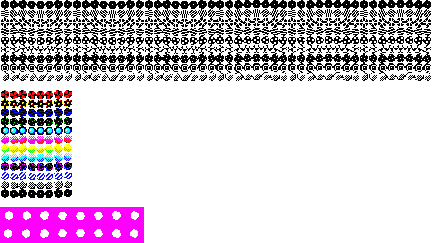
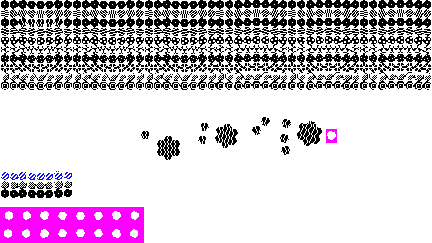
added colors to ui

diff --git a/src/text.c b/src/text.c
@@ -15,7 +15,7 @@ void FontTerminate(Font_t* f)
     free(f);
 }
 
-void FontCharDraw(Font_t* f, wchar_t c, int x, int y)
+void FontCharDraw(Font_t* f, wchar_t c, int x, int y, int color)
 {
     //SDL_SetRenderDrawColor( m_renderer, rgb[val][0], rgb[val][1], rgb[val][2], 255 );
     wchar_t n = c;     // ~    126
@@ -32,10 +32,11 @@ void FontCharDraw(Font_t* f, wchar_t c, int x, int y)
     int srcy = (n / 15) * f->character_height;
     int dstx = x * f->character_width;
     int dsty = y * f->character_height;
-    SpriteDraw(f->sprite, srcx, srcy, dstx, dsty);
+    SpriteDraw(f->sprite, srcx, srcy, dstx, dsty, color);
+
 }
 
-void FontCharFill(Font_t* f, wchar_t c, int x, int y, int w, int h)
+void FontCharFill(Font_t* f, wchar_t c, int x, int y, int w, int h, int color)
 {
     int cx = x, cy = y;
     int i = 0;
@@ -46,13 +47,13 @@ void FontCharFill(Font_t* f, wchar_t c, int x, int y, int w, int h)
                 cx = x;
                 cy += 1;
             }
-            FontCharDraw(f, c, cx, cy);
+            FontCharDraw(f, c, cx, cy, color);
             cx += 1;
         i++;
     }
 }
 
-void FontStringDraw(Font_t* f, int ax, int ay, int w, int h, wchar_t* s)
+void FontStringDraw(Font_t* f, int ax, int ay, int w, int h, wchar_t* s, int color)
 {
     int cx = ax, cy = ay;
     wchar_t c = *s;
@@ -74,7 +75,7 @@ void FontStringDraw(Font_t* f, int ax, int ay, int w, int h, wchar_t* s)
                 cy += 1;
             }
             if(c != ' ')
-                FontCharDraw(f, c, cx, cy);
+                FontCharDraw(f, c, cx, cy, color);
             cx += 1;
             break;
         }
@@ -83,84 +84,11 @@ void FontStringDraw(Font_t* f, int ax, int ay, int w, int h, wchar_t* s)
     }
 }
 
-void FontNumberDraw(Font_t* f, int ax, int ay, int w, int h, int num)
+void FontNumberDraw(Font_t* f, int ax, int ay, int w, int h, int num, int color)
 {
     wchar_t str[240];
     swprintf(str, 240, L"%i", 
     num);
-    FontStringDraw(f, ax, ay, w, h, str);
+    FontStringDraw(f, ax, ay, w, h, str, color);
 }
 
-void FontUIDraw(Font_t* f, Display_t* d)
-{
-    wchar_t reading[82];
-
-    FILE* fl1 = NULL;
-    fl1 = fopen("./src/ui.txt", "r");
-    for(int i = 0; i < 45; i++)
-    {
-        fgetws(reading, 82, fl1);
-        FontStringDraw(f, 0, i, 80, 1, reading); 
-    }
-    fclose(fl1);
-
-    int x, y;
-    MouseToGrid(&x, &y);
-    wchar_t str[240];
-    swprintf(str, 240, L"угол: %i\nсдвиг по х: %i\nсдвиг по y: %i\nмышь х: %i\nмышь y: %i\n", 
-    d->angle, d->hshift.x, d->hshift.y, x, y);
-    
-    FontStringDraw(f, 1, 28, 15, 16,
-    str);
-    /*
-    FontStringDraw(f, 1, 1, 3, 3, L"/=\\‖o‖\\=/");
-    FontStringDraw(f, 5, 1, 3, 3, L"r `   l №");
-    FontStringDraw(f, 9, 1, 3, 3, L"o\\ \\ \\ \\o");
-    FontStringDraw(f, 1, 5, 3, 3, L" n <ш>iV ");
-
-    FontStringDraw(f, 1, 10, 3, 3, L":::r`/`№ъ");
-    FontStringDraw(f, 5, 10, 3, 3, L"n n>>>u u");
-
-    FontStringDraw(f, 1, 18, 3, 4, L"c=\\ // u  o ");
-    FontStringDraw(f, 1, 23, 3, 4, L"r\\ |l\\| |l-№");r\ 
-    FontStringDraw(f, 5, 23, 3, 4, L" Л /‖\\ ‖ c=э"); |l\
-    FontStringDraw(f, 9, 23, 3, 4, L" ‖ \\‖/ V c=э"); | |
-    FontStringDraw(f, 13, 23, 3, 4, L" n qhpdчb u "); l-№
-    */
-    int r = 16;
-    x = 38, y = 22;
-    int ang = d->angle;
-
-    wchar_t angstr[4];
-    swprintf(angstr, 4, L"%i", ang * 60);
-
-    int zang, nang;
-    int xang, yang;
-
-    zang = r, nang = 0;
-    FontNumberDraw(f, zang, nang, 3, 1, ang);    
-
-    HexToGrid(d, &zang, &nang);
-    FontNumberDraw(f, zang, nang, 3, 1, 0);
-
-    zang = r, nang = -r;
-    HexToGrid(d, &zang, &nang);
-    FontNumberDraw(f, zang, nang, 3, 1, 90);
-
-    zang = 0, nang = -r;
-    HexToGrid(d, &zang, &nang);
-    FontNumberDraw(f, zang, nang, 3, 1, 120);
-
-    zang = -r, nang = 0;
-    HexToGrid(d, &zang, &nang);
-    FontNumberDraw(f, zang, nang, 3, 1, 180);
-
-    zang = -r, nang = r;
-    HexToGrid(d, &zang, &nang);
-    FontNumberDraw(f, zang, nang, 3, 1, 240);
-
-    zang = 0, nang = r;
-    HexToGrid(d, &zang, &nang);
-    FontNumberDraw(f, zang, nang, 3, 1, 300);
-    
-}

diff --git a/src/interface.c b/src/interface.c
@@ -4,6 +4,10 @@ const int buttonlistsize = 7;
 
 const int sliderlistsize = 2;
 
+const int inform_color = 2;
+const int interact_color = 7;
+const int frame_color = 3;
+
 extern InputState_t inpst;
 
 Button_t** buttonlist;
@@ -49,8 +53,9 @@ void InterfaceTerminate()
     ButtonListTerminate();
 }
 
-void InterfaceDraw(Font_t* f)
+void InterfaceDraw(Font_t* f, Display_t* d)
 {
+    FontUIDraw(f, d);
     ButtonListDraw(f);
     SliderListDraw(f);
 }
@@ -110,9 +115,9 @@ void ButtonTerminate(Button_t* b)
 void ButtonDraw(Button_t* b, Font_t* f)
 {
     if(b->text == 1)
-        FontStringDraw(f, b->x, b->y, b->w, b->h, b->string);
+        FontStringDraw(f, b->x, b->y, b->w, b->h, b->string, interact_color);
     else
-        FontStringDraw(f, b->x, b->y, b->w, b->h, b->sscndr);
+        FontStringDraw(f, b->x, b->y, b->w, b->h, b->sscndr, interact_color);
 }
 
 void ButtonListDraw(Font_t* f)
@@ -121,8 +126,8 @@ void ButtonListDraw(Font_t* f)
     {
         ButtonDraw(buttonlist[i], f);
     }
-    FontNumberDraw(f, 9, 1, 1, 1, cursor.lm);
-    FontNumberDraw(f, 11, 1, 1, 1, cursor.rm);
+    FontNumberDraw(f, 9, 1, 1, 1, cursor.lm, interact_color);
+    FontNumberDraw(f, 11, 1, 1, 1, cursor.rm, interact_color);
 }
 
 void ButtonListCheck()
@@ -384,8 +389,8 @@ void SliderListTerminate()
 
 void SliderDraw(Slider_t* s, Font_t* f)
 {
-    FontCharFill(f, L'-', s->x + 1, s->y + 1, s->w - 2, 1);
-    FontStringDraw(f, s->x + s->c, s->y, 1, 2, L"V+");
+    FontCharFill(f, L'-', s->x + 1, s->y + 1, s->w - 2, 1, interact_color);
+    FontStringDraw(f, s->x + s->c, s->y, 1, 2, L"V+", interact_color);
     int value = s->a + s->d * (s->c - 1);
     int raz = 0;
     int dva = 100;
@@ -395,7 +400,7 @@ void SliderDraw(Slider_t* s, Font_t* f)
         dva = dva * 100;
     }
     
-    FontNumberDraw(f, s->x + s->c - raz, s->y + 2, 3, 1, value);
+    FontNumberDraw(f, s->x + s->c - raz, s->y + 2, 3, 1, value, interact_color);
 }
 
 void SliderListDraw(Font_t* f)
@@ -466,5 +471,73 @@ void SliderDown(Slider_t* s, int c)
 
 void SliderUp(Slider_t* s)
 {
+    
+}
+
+void FontUIDraw(Font_t* f, Display_t* d)
+{
+    wchar_t reading[82];
+
+    FILE* fl1 = NULL;
+    fl1 = fopen("./src/ui.txt", "r");
+    for(int i = 0; i < 45; i++)
+    {
+        fgetws(reading, 82, fl1);
+        FontStringDraw(f, 0, i, 80, 1, reading, frame_color); 
+    }
+    fclose(fl1);
+
+    int x, y;
+    MouseToGrid(&x, &y);
+    wchar_t str[240];
+    swprintf(str, 240, L"угол: %i\nсдвиг по х: %i\nсдвиг по y: %i\nмышь х: %i\nмышь y: %i\n", 
+    d->angle, d->hshift.x, d->hshift.y, x, y);
+    
+    FontStringDraw(f, 1, 28, 15, 16,
+    str, inform_color);
+    /*
+    FontStringDraw(f, 1, 1, 3, 3, L"/=\\‖o‖\\=/");
+    FontStringDraw(f, 5, 1, 3, 3, L"r `   l №");
+    FontStringDraw(f, 9, 1, 3, 3, L"o\\ \\ \\ \\o");
+    FontStringDraw(f, 1, 5, 3, 3, L" n <ш>iV ");
+
+    FontStringDraw(f, 1, 10, 3, 3, L":::r`/`№ъ");
+    FontStringDraw(f, 5, 10, 3, 3, L"n n>>>u u");
+
+    FontStringDraw(f, 1, 18, 3, 4, L"c=\\ // u  o ");
+    FontStringDraw(f, 1, 23, 3, 4, L"r\\ |l\\| |l-№");r\ 
+    FontStringDraw(f, 5, 23, 3, 4, L" Л /‖\\ ‖ c=э"); |l\
+    FontStringDraw(f, 9, 23, 3, 4, L" ‖ \\‖/ V c=э"); | |
+    FontStringDraw(f, 13, 23, 3, 4, L" n qhpdчb u "); l-№
+    */
+    int r = 16;
+    int ang = d->angle;
+
+    int zang, nang;
+
+    zang = r, nang = 0;   
+
+    HexToGrid(d, &zang, &nang);
+    FontNumberDraw(f, zang, nang, 3, 1, 0, inform_color);
+
+    zang = r, nang = -r;
+    HexToGrid(d, &zang, &nang);
+    FontNumberDraw(f, zang, nang, 3, 1, 90, inform_color);
+
+    zang = 0, nang = -r;
+    HexToGrid(d, &zang, &nang);
+    FontNumberDraw(f, zang, nang, 3, 1, 120, inform_color);
+
+    zang = -r, nang = 0;
+    HexToGrid(d, &zang, &nang);
+    FontNumberDraw(f, zang, nang, 3, 1, 180, inform_color);
+
+    zang = -r, nang = r;
+    HexToGrid(d, &zang, &nang);
+    FontNumberDraw(f, zang, nang, 3, 1, 240, inform_color);
+
+    zang = 0, nang = r;
+    HexToGrid(d, &zang, &nang);
+    FontNumberDraw(f, zang, nang, 3, 1, 300, inform_color);
     
 }

diff --git a/src/video.c b/src/video.c
@@ -77,18 +77,18 @@ void HexelDraw(Display_t* d, int z, int n, Cell_t* c, int b_ui)
     int srcx = d->angle * 9;
     int srcy = c->mat * 9;
 
-    SDL_SetTextureColorMod(s1->texture, rgb[c->clr][0], rgb[c->clr][1], rgb[c->clr][2]);
+    //SDL_SetTextureColorMod(s1->texture, rgb[c->clr][0], rgb[c->clr][1], rgb[c->clr][2]);
     if(b_ui == 1)
     {
         srcx = d->angle * 9;
         srcy = (mod(c->fld2, 10)) * 9;
-        SpriteDraw(s2, srcx, srcy, hexel.x, hexel.y);
+        SpriteDraw(s2, srcx, srcy, hexel.x, hexel.y, c->clr);
     }
     else
     {
         srcx = d->angle * 9;
         srcy = c->mat * 9;
-        SpriteDraw(s1, srcx, srcy, hexel.x, hexel.y);
+        SpriteDraw(s1, srcx, srcy, hexel.x, hexel.y, c->clr);
     }
 }
 
@@ -155,9 +155,10 @@ void SpriteTerminate(Sprite_t* s)
     free(s);
 }
 
-void SpriteDraw(Sprite_t* s, int x1, int y1, int x2, int y2)
+void SpriteDraw(Sprite_t* s, int x1, int y1, int x2, int y2, int color)
 {
     s->source.x = x1;            s->source.y = y1;
     s->destination.x = x2;       s->destination.y =  y2;
+    SDL_SetTextureColorMod(s->texture, rgb[color][0], rgb[color][1], rgb[color][2]);
     SDL_RenderCopy(m_renderer, s->texture, &s->source, &s->destination);
 }

diff --git a/src/text.h b/src/text.h
@@ -7,14 +7,14 @@ Font_t* FontInitialise();
 
 void FontTerminate(Font_t* f);
 
-void FontCharDraw(Font_t* f, wchar_t c, int x, int y);
+void FontCharDraw(Font_t* f, wchar_t c, int x, int y, int color);
 
-void FontCharFill(Font_t* f, wchar_t c, int x, int y, int w, int h);
+void FontCharFill(Font_t* f, wchar_t c, int x, int y, int w, int h, int color);
 
-void FontStringDraw(Font_t* f, int ax, int ay, int w, int h, wchar_t* s);
+void FontStringDraw(Font_t* f, int ax, int ay, int w, int h, wchar_t* s, int color);
 
-void FontNumberDraw(Font_t* f, int ax, int ay, int w, int h, int num);
+void FontNumberDraw(Font_t* f, int ax, int ay, int w, int h, int num, int color);
 
-void FontUIDraw(Font_t* f, Display_t* d);
+
 
 #endif

diff --git a/src/hexagons.c b/src/hexagons.c
@@ -39,10 +39,12 @@ void RulesInitialize()
     p_rules[3][6][1] = 2;
     
     p_rules[4][5][0] = 0;
-    p_rules[4][5][1] = 3;
+    p_rules[4][5][1] = 2;
 
     p_rules[5][4][0] = 0;
-    p_rules[5][4][1] = 2;
+    p_rules[5][4][1] = 3;
+    p_rules[5][4][2] = 3;
+    p_rules[5][4][3] = 0;
     
     p_rules[6][3][0] = 0;
     p_rules[6][3][1] = 6;
@@ -57,6 +59,11 @@ void RulesInitialize()
     
     p_rules[7][3][0] = 0;
     p_rules[7][3][1] = 2;
+    
+    p_rules[8][4][0] = 0;
+    p_rules[8][4][1] = 3;
+    p_rules[8][4][2] = 3;
+    p_rules[8][4][3] = 3;
     
 }
 

diff --git a/src/interface.h b/src/interface.h
@@ -35,7 +35,7 @@ void InterfaceInitialize();
 
 void InterfaceTerminate();
 
-void InterfaceDraw(Font_t* f);
+void InterfaceDraw(Font_t* f, Display_t* d);
 
 void InterfaceUpdate();
 
@@ -80,5 +80,7 @@ void SliderListCheck();
 void SliderDown(Slider_t* s, int c);
 
 void SliderUp(Slider_t* s);
+
+void FontUIDraw(Font_t* f, Display_t* d);
 
 #endif

diff --git a/src/video.h b/src/video.h
@@ -25,6 +25,6 @@ Sprite_t* SpriteInitialize(int width, int height, const char* file);
 
 void SpriteTerminate(Sprite_t* s);
 
-void SpriteDraw(Sprite_t* s, int x1, int y1, int x2, int y2);
+void SpriteDraw(Sprite_t* s, int x1, int y1, int x2, int y2, int color);
 
 #endif

diff --git a/src/main.c b/src/main.c
@@ -50,8 +50,8 @@ void update_frame(uint64_t* ft, int64_t* dr)
     
     InterfaceUpdate();
 
-    FontUIDraw(f1, d1);
-    InterfaceDraw(f1);
+    //
+    InterfaceDraw(f1, d1);
     //ButtonListDraw(f1);
     //ButtonDraw(b1, f1);
 
